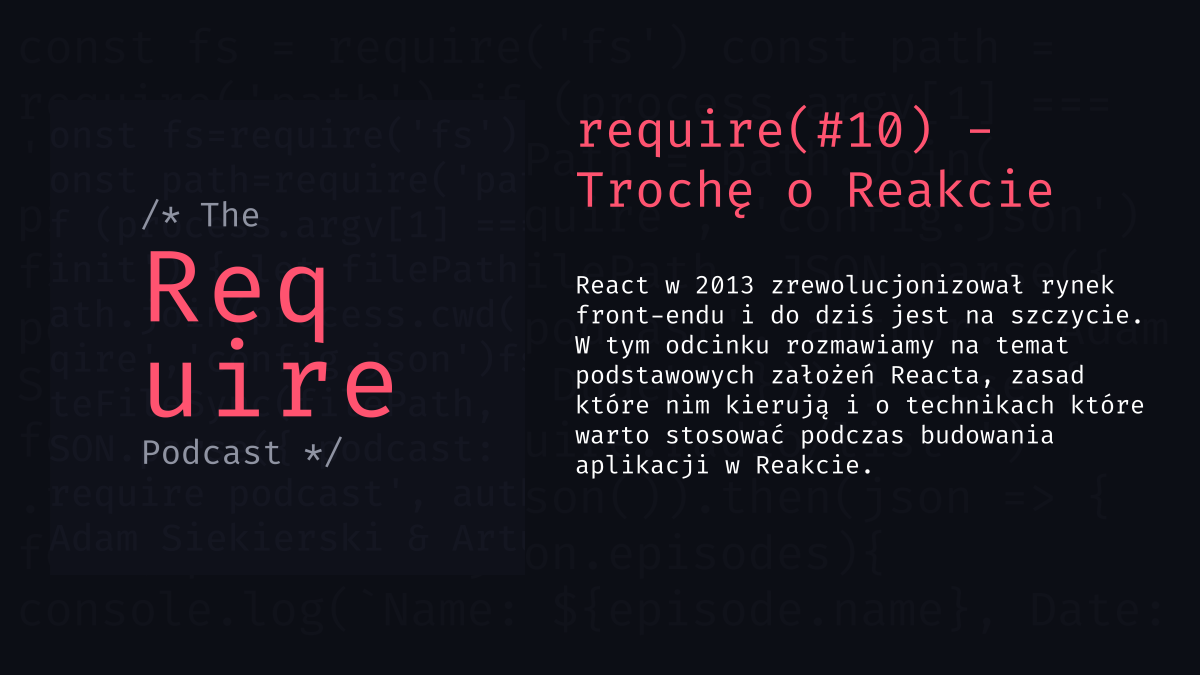
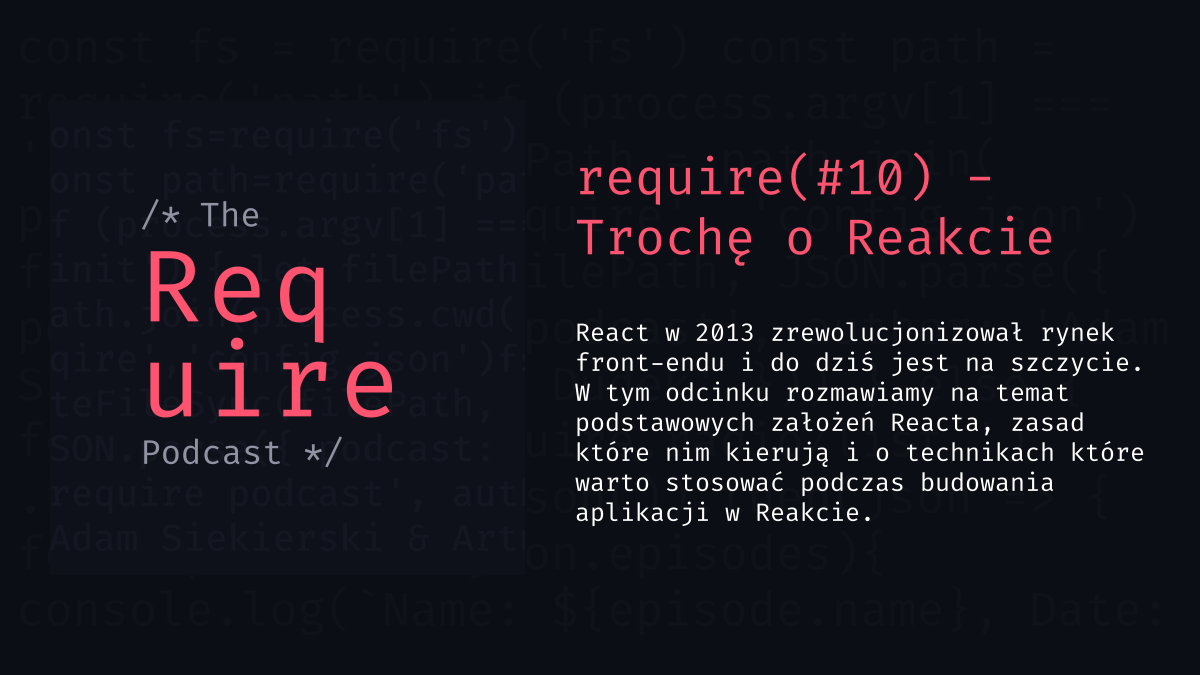
Vertically center text in twitter image

Changed region(s): [[0.4625, 0.4044, 0.9558, 0.7778], [0.4625, 0.1556, 0.8942, 0.3733], [0.8017, 0.1867, 0.8325, 0.2178]]

diff --git a/twitter.js b/twitter.js
@@ -22,23 +22,28 @@ registerFont('assets/FiraCode.ttf', { family: 'FiraCode' });
   const logo = await loadImage('assets/RequireLogo.png');
   ctx.drawImage(logo, 50, 100, 475, 475);
 
-  // Title
+  // Title and description
+  const titleLines = wrapText(EPISODE_TITLE, 20);
+  const titleHeight = titleLines.length * 60;
+
+  const descriptionLines = wrapText(EPISODE_DESCRIPTION, 39);
+  const descriptionHeight = descriptionLines.length * 30;
+
+  const textHeight = titleHeight + descriptionHeight + 50;
+  const textBase = canvas.height / 2 - textHeight / 2;
+
   ctx.font = '50px FiraCode';
   ctx.textBaseline = 'top';
   ctx.fillStyle = '#ff5370';
   ctx.textAlign = 'left';
-  const titleLines = wrapText(EPISODE_TITLE, 20);
   titleLines.map((line, i) => {
-    ctx.fillText(line, 575, 100 + i * 60);
+    ctx.fillText(line, 575, textBase + i * 60);
   });
 
-  // Description
   ctx.font = '25px FiraCode';
   ctx.fillStyle = 'white';
-  const titleLinesHeight = titleLines.length * 60;
-  const descriptionLines = wrapText(EPISODE_DESCRIPTION, 39);
   descriptionLines.map((line, i) => {
-    ctx.fillText(line, 575, 150 + titleLinesHeight + 30 * i);
+    ctx.fillText(line, 575, textBase + titleHeight + 50 + i * 30);
   });
 
   // Save to file
